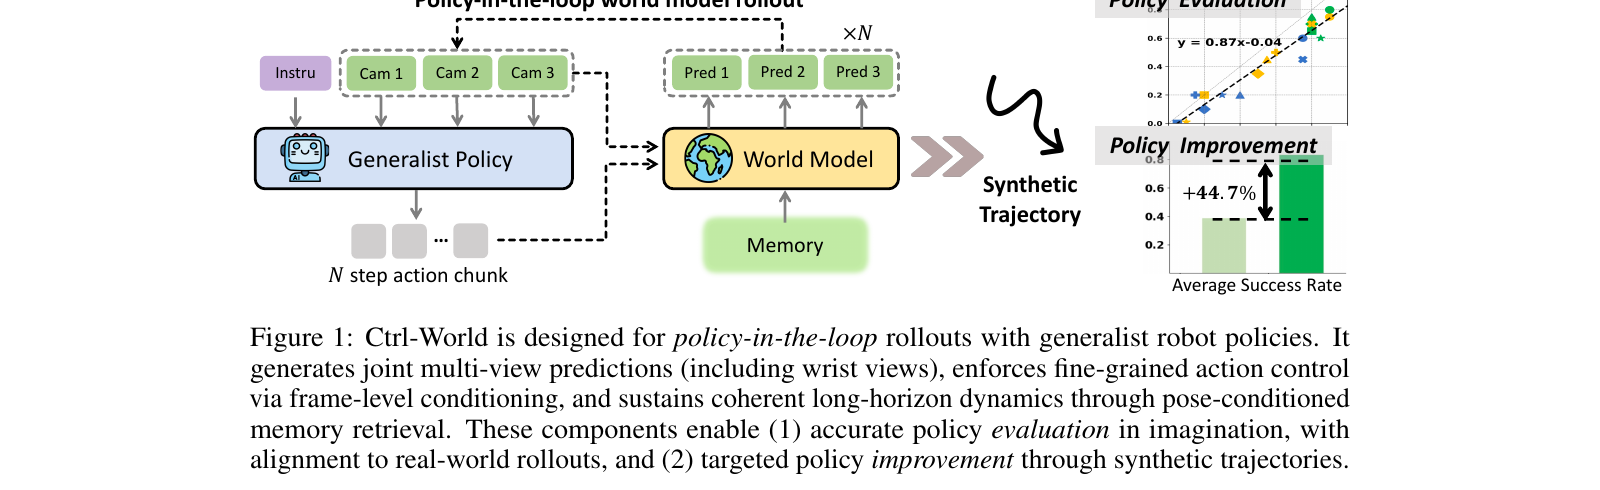
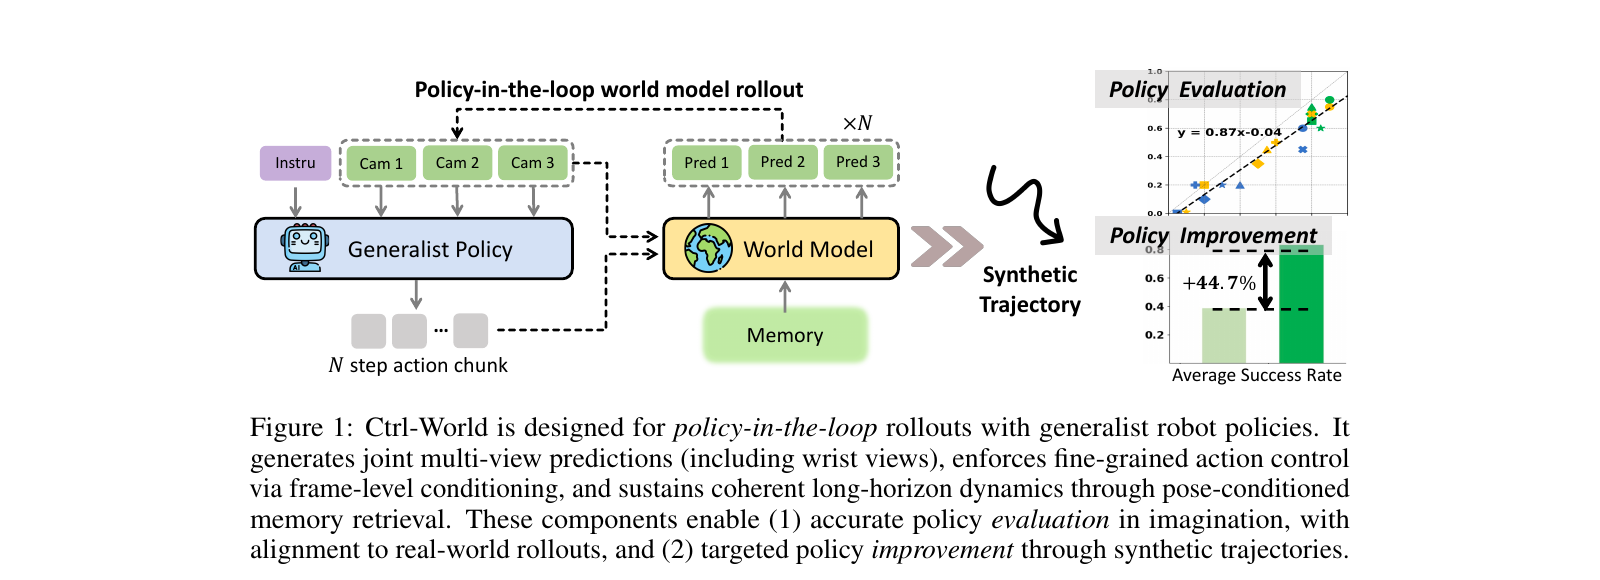
Ctrl-World summary: 重裁 Figure 1 (完整含顶部标题) + 删掉 problem 节末'暂无 figure'说明

Changed region(s): [[0.1562, 0.0, 0.8438, 0.9796]]

diff --git a/VLA-WM/[arXiv 2510.10125] Ctrl-World/sections/summary.md b/VLA-WM/[arXiv 2510.10125] Ctrl-World/sections/summary.md
@@ -22,8 +22,6 @@
 
 → 后面我们会看到，它怎么搭这个 simulator（§4.1）、怎么用它评估（§4.2 + §5.3）、怎么用它改进（§5.4）。
 
-*暂无对应 figure —— problem 用文字讲就够。Figure 1 是 solution overview，下面就上。*
-
 ---
 
 ## 2. 这篇 paper 的解决方法全景 · 一张图看懂
